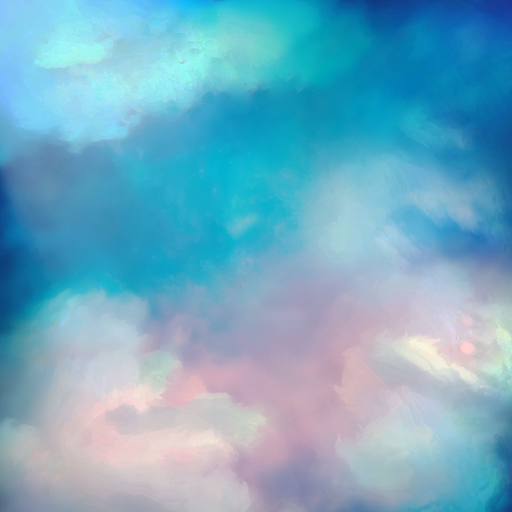
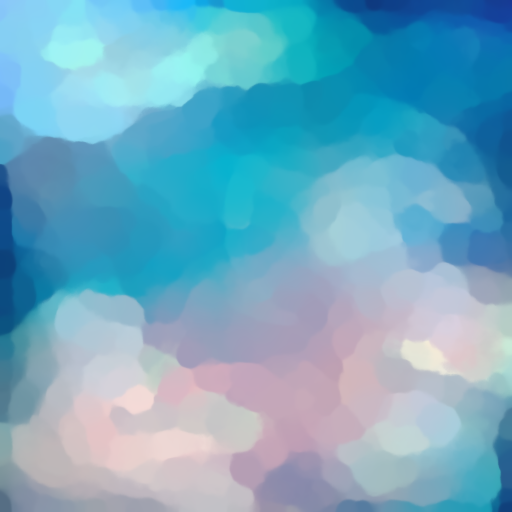
daily update

diff --git a/src/styles/gui.scss b/src/styles/gui.scss
@@ -193,21 +193,24 @@ $header-size: 35px;
 					position: relative;
 					overflow: hidden;
 
-					&:not(.selected):hover button {
-						//background-color: #ef535080;
+					&:not(.selected):hover button, &:not(.selected):hover .name-label {
 						opacity: 0.5;
 
-						&:hover {
-							opacity: 1 !important;
+						&:not(.name-label):hover {
+							opacity: 1;
 						}
 					}
 
-					& > button {
+					&.single_option:not(.selected):hover button:hover {
+						opacity: 0.8 !important;
+					}
+
+					& > button, & > .name-label {
 						position: absolute;
 						left: 0px;
 						//top: 0px;
 						width: 100%;
-						height: 50%;
+						height: 33.33333%;
 						box-shadow: none;
 						border: none;
 						border-radius: 0px;
@@ -217,16 +220,31 @@ $header-size: 35px;
 
 						transition: opacity 0.15s linear;
 
-						&:nth-child(2) {
+						&.name-label {
 							top: 0px;
+							background: #fff;
+							color: #000;
+							text-shadow: 0px 0px 1px #fff;
+							font-weight: bold;
+							margin: 0px;
+							line-height: 26px;
+							vertical-align: middle;
 						}
-						&:last-child {
+						&:nth-child(2) {
+							bottom: 33.33333%;
+						}
+						&:nth-child(3) {
 							bottom: 0px;
 						}
 
 						opacity: 0;
+					}
 
-						
+					&.single_option > button {
+						bottom: 0px;
+						height: 66%;
+
+						// background-color: red;
 					}
 
 					&.selected {

diff --git a/src/game/game_gui.js b/src/game/game_gui.js
@@ -96,7 +96,7 @@ export default class GameGUI {
 		});
 
 		//this.showSettings();//temp test
-		//this.changeMode(1);//temp test
+		this.changeMode(1);//temp test
 	}
 
 	getNode() {
@@ -158,17 +158,27 @@ export default class GameGUI {
 					'border-radius': `${radius}px`
 				});
 			}
-			container.addChild(
-				$.create('div').addClass('asset_preview').addClass(obj_name).setStyle({
-					width: `${preview_size}px`,
-					height: `${preview_size}px`,
-				}).addChild( obj_preview,
+			let asset_preview = $.create('div').addClass('asset_preview').addClass(obj_name).setStyle({
+				width: `${preview_size}px`,
+				height: `${preview_size}px`,
+			}).addChild( obj_preview );
+
+			if(obj.shape !== MapData.SHAPE_TYPE.RECT) {
+				asset_preview.addChild(
 					$.create('button').text('DYNAMICZNY').on('click', () => 
-						this.selectAsset(obj, obj_name, true)),
-					$.create('button').text('STATYCZNY').on('click', () => 
-						this.selectAsset(obj, obj_name, false))
-				)
+						this.selectAsset(obj, obj_name, true))
+				);
+			}
+			else
+				asset_preview.addClass('single_option');
+
+			asset_preview.addChild(
+				$.create('button').text('STATYCZNY').on('click', () => 
+					this.selectAsset(obj, obj_name, false)),
+				$.create('label').addClass('name-label').text(obj.name)
 			);
+
+			container.addChild(asset_preview);
 		}
 
 		this.main_edit.text('').addChild( container );

diff --git a/src/game/predefined_assets.js b/src/game/predefined_assets.js
@@ -6,40 +6,46 @@ export const THEMES = {
 	'zielony': 	'green',
 	'skrzynia': 'crate',
 	'wyjscie':	'exit',
-	'trawa': 'grass',
-	'lawa': 'lava'
+	'trawa': 	'grass',
+	'lawa': 	'lava'
 };
 
-export const OBJECTS = {
+export const OBJECTS = {//some of those name must not be changed due to correlation with other code
 	'exit': {
+		name: 'Wyjście',
 		theme: THEMES.wyjscie,
 		shape: MapData.SHAPE_TYPE.CIRCLE,
 		radius: 0.2
 	},
 	'domino_block': {
+		name: 'Blok domina',
 		theme: THEMES.czerwony,
 		shape: MapData.SHAPE_TYPE.RECT,
 		width: 0.05,
 		height: 0.15
 	},
 	'red_ball': {
+		name: 'Piłka',
 		theme: THEMES.zielony,
 		shape: MapData.SHAPE_TYPE.CIRCLE,
 		radius: 0.1
 	},
 	'crate': {
+		name: 'Skrzynia',
 		theme: THEMES.skrzynia,
 		shape: MapData.SHAPE_TYPE.RECT,
 		width: 0.1,
 		height: 0.1
 	},
 	'lava': {
+		name: 'Lawa',
 		theme: THEMES.lawa,
 		shape: MapData.SHAPE_TYPE.RECT,
 		width: 0.1,
 		height: 0.1
 	},
 	'grass': {
+		name: 'Trawa',
 		theme: THEMES.trawa,
 		shape: MapData.SHAPE_TYPE.RECT,
 		width: 0.1,
@@ -47,7 +53,7 @@ export const OBJECTS = {
 	},
 };
 
-export const TEXTURES = {
+export const TEXTURES = {//names must much those in svg.scss
 	'player_texture': {
 		src: require('./../img/textures/player.png'),
 		width: Config.VIRT_SCALE*0.1,

diff --git a/src/styles/svg.scss b/src/styles/svg.scss
@@ -58,6 +58,11 @@ svg.game-svg {
 		@each $name, $data in $textures {
 			&.#{$name} {
 				fill: url(##{ nth($data, 1) });
+			}
+		}
+
+		&.player {
+			fill: url('#player_texture');
 		}
 	}
 
@@ -79,11 +84,6 @@ svg.game-svg {
 			}
 		}
 	}
-
-	&.player {
-		fill: url(#player_texture);
-	}
-}
 }
 
 .asset_preview {

diff --git a/src/game/background.js b/src/game/background.js
@@ -3,7 +3,7 @@ import SvgObject from './svg';
 import Config from './config';
 
 import bg_texture from './../img/backgrounds/bg4.png';
-// import bg_texture from './../img/backgrounds/blured.png';
+// import bg_texture from './../img/backgrounds/blured_oil.png';
 
 // @ts-check
 export default class Background {

diff --git a/README.md b/README.md
@@ -4,13 +4,8 @@ Project created for learning purpouses.
 
 <b>TODO</b>
 <ul>
-	<li>Favicon</li>
-	<li>Object styles</li>
 	<li>Aspect ratio settings</li>
 	<li>Shadows settings</li>
 	<li>More assets themes</li>
-	<li>Drag and drop system for adding assets onto map</li>
-	<li>Create textures for some assets</li>
-	<li>Selecting objects by mouse click (edit mode)</li>
 	<li>Selecting multiple objects with mouse</li>
 </ul>
